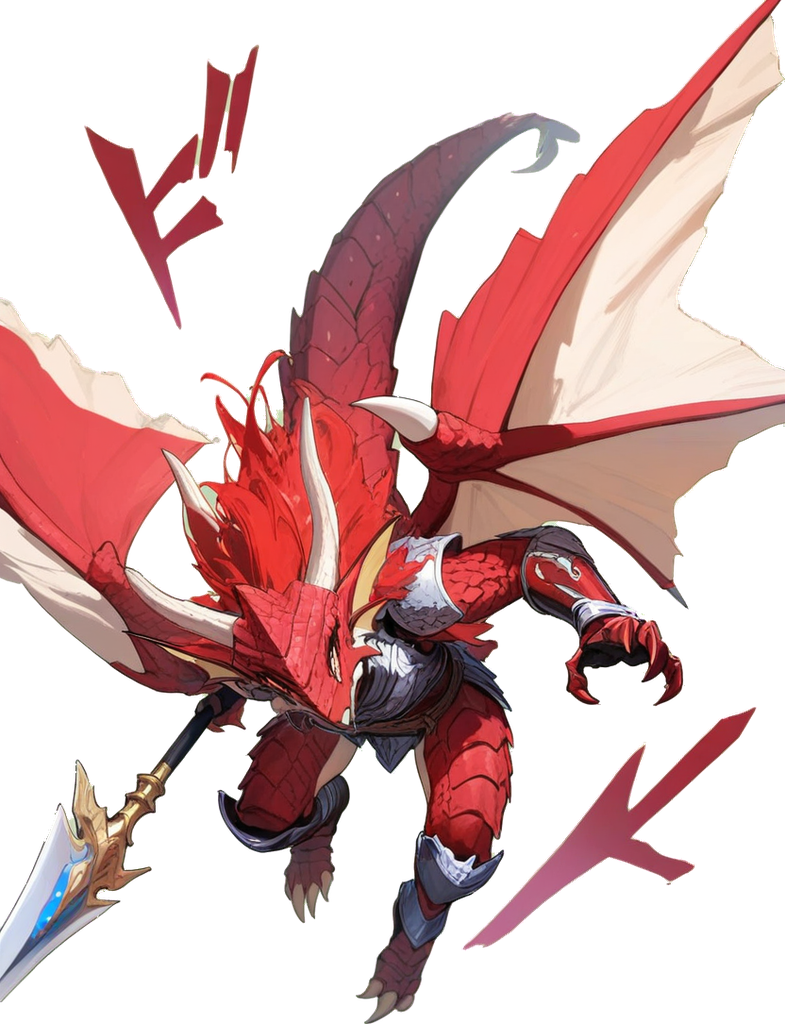
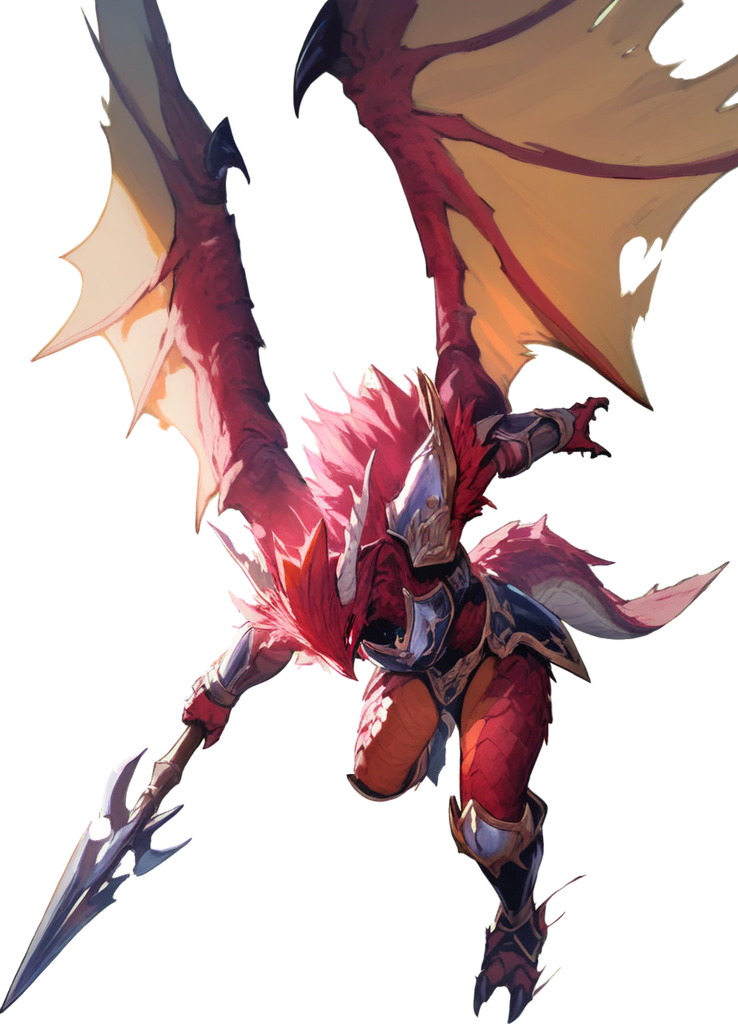
Version 38: attack poses for all six 龍兵

diff --git a/src/shell.js b/src/shell.js
@@ -14,7 +14,7 @@
 
   // The version the player sees (menu, and a toast after an update): the Artifact version this is
   // published as. Bump it on every publish; the public site is built from the same files.
-  const VERSION = 37;
+  const VERSION = 38;
 
   // ---------------------------------------------------------------- storage
   // localStorage can be missing or throw (private windows, previews): the game still runs.
